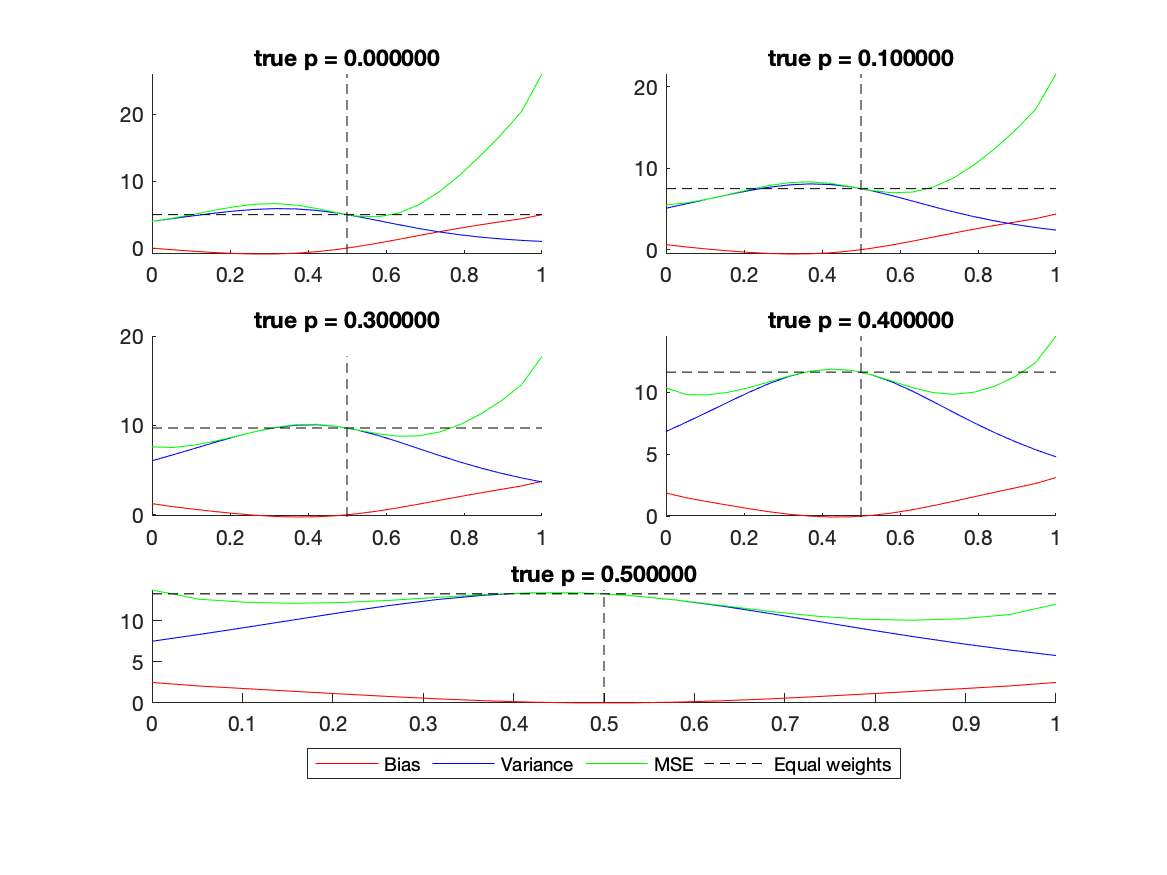
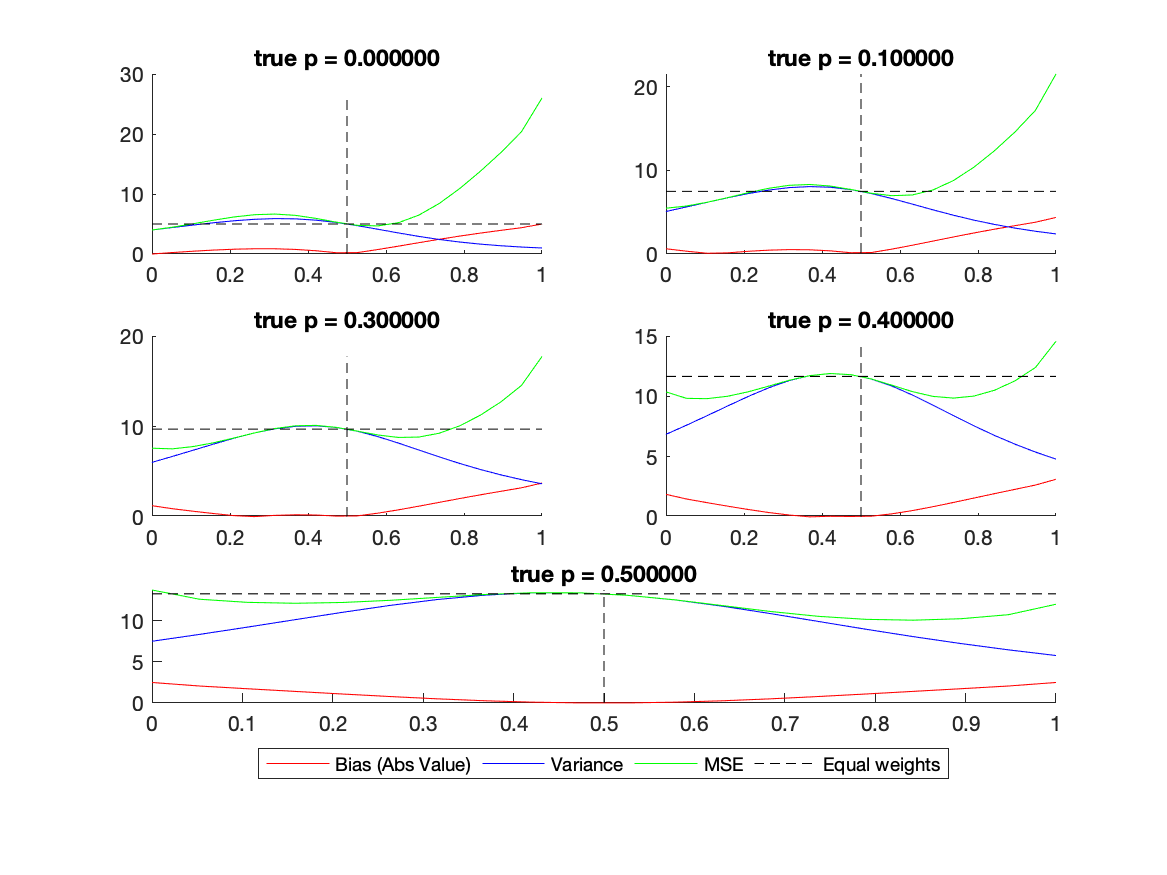
began writing conclusions of bias/variance experiment

diff --git a/Code/do_bias_analysis.m b/Code/do_bias_analysis.m
@@ -23,7 +23,7 @@ for t=1:numP            % t indicates true prob
     
     for i=1:numBeliefs        % i indicates believed prob
         a = calcA(beliefs(i),varX1(i), varX2(i));
-        bias(i) = calc_bias(a, trueP(t));
+        bias(i) = abs(calc_bias(a, trueP(t)));
         vars(i) = calc_var(a, varX1(t), varX2(t));
     end
     
@@ -40,7 +40,7 @@ for t=1:numP            % t indicates true prob
     
     hold on
     title(sprintf(formatSpec, round(trueP(t),1)))
-    h(1) = plot(beliefs, bias, 'r', 'DisplayName','Bias');
+    h(1) = plot(beliefs, bias, 'r', 'DisplayName','Bias (Abs Value)');
     h(2) = plot(beliefs, vars, 'b', 'DisplayName','Variance');
     h(3) = plot(beliefs, MSE, 'g', 'DisplayName', 'MSE');
     h(4) = plot([beliefs(1), beliefs(numBeliefs)], [varComp, varComp], '--k', 'DisplayName', 'Equal weights');
@@ -51,12 +51,14 @@ end
 
 legend(h(1:4), 'Location', 'southoutside','orientation','horizontal')
 
-% uncomment this with Matlab 2019a
 titleSpec = 'Correct Distribution: (%d,%d)  Incorrect Distribution: (%d,%d)';
+titleName = sprintf(titleSpec, correct_mean, correct_var, incorrect_mean, incorrect_var);
+fig1.Name = titleName;
+
+% uncomment this with Matlab 2019a
 % sgtitle(sprintf(titleSpec, correct_mean, correct_var, incorrect_mean, incorrect_var))
 
 paramSpec = '%d_%d_%d_%d';
-%fix this so that it is actually inputs in string form, ie sqrt 2?
 str = sprintf(paramSpec,correct_mean, correct_var, incorrect_mean, incorrect_var);
 saveas(fig1,strcat('../Figures/bias_var_tradeoff_',str,'.png'));
 
